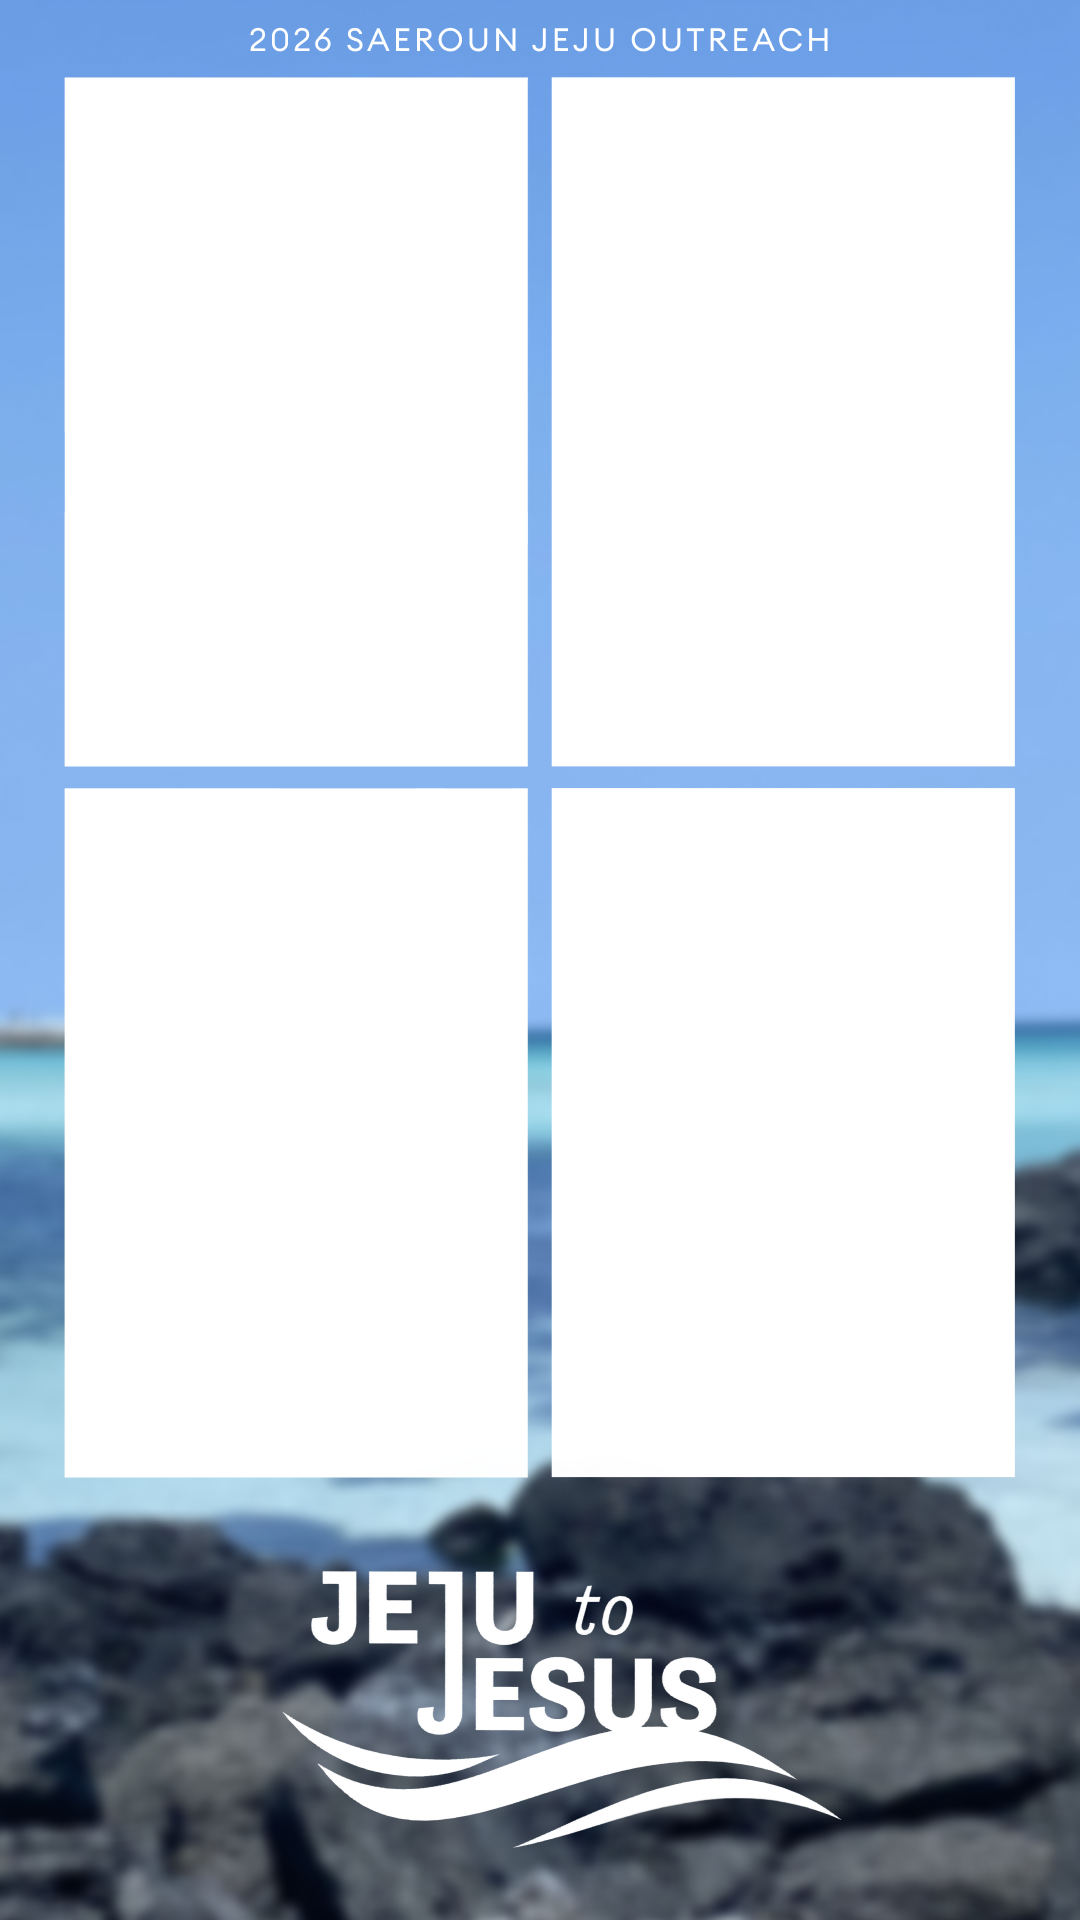
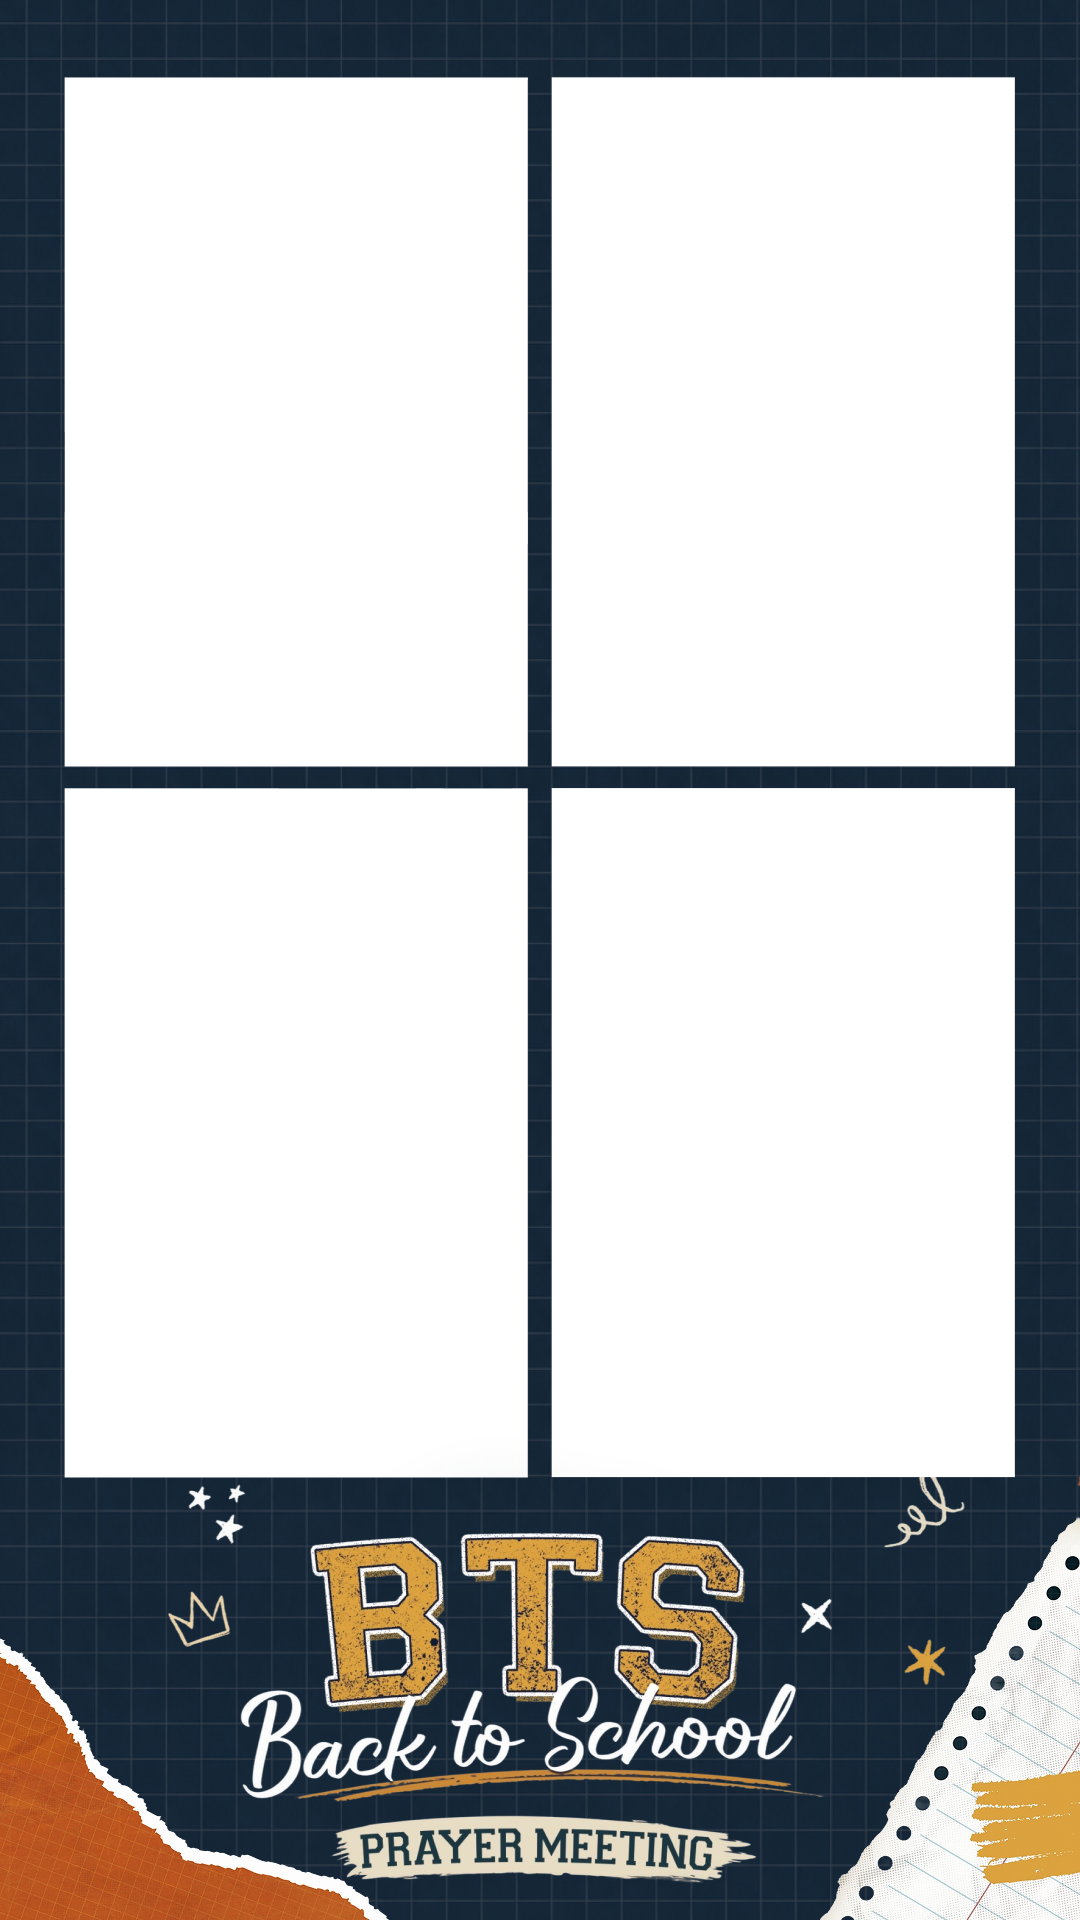
Fix Vercel frame assets

diff --git a/frontend/src/utils/composer.js b/frontend/src/utils/composer.js
@@ -7,6 +7,13 @@ export const FRAME_OPTIONS = [
     color: '#ffffff',
     preview: '/frames/frame_0001_circle.png',
     src: '/frames/frame_0001.png',
+  },
+  {
+    id: 'frame0002',
+    name: '프레임 2',
+    color: '#ffffff',
+    preview: '/frames/frame_0002_circle.png',
+    src: '/frames/frame_0002.png',
   }
 ];
 
